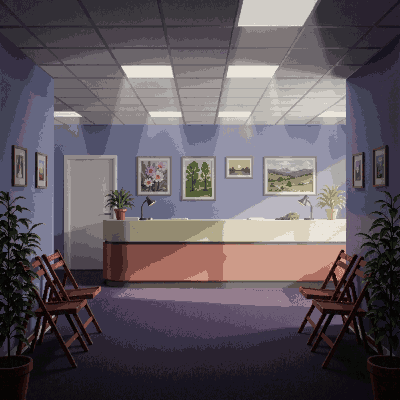
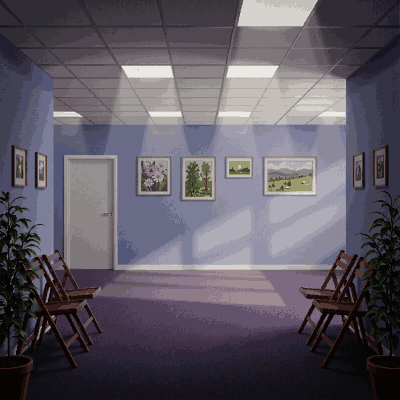
NPC placement: centred towards the top right; moves in m01 and The Tesseract Trials
General guidance (README, room-dressing and background skills): stand person
NPCs roughly centred towards the top right of the room, clear of furniture.
Moved Kevin (m01 IT room), Jordan (foyer), Cliffe (common room), Oleg (in front
of the staff kitchen) and Tom (the aisle between the lecture seats); each
checked in a tour screenshot. m01's reception background no longer has the
counter, so Sarah doesn't look as if she stands in front of it.

diff --git a/.claude/skills/mission-room-dressing/SKILL.md b/.claude/skills/mission-room-dressing/SKILL.md
@@ -51,6 +51,7 @@ Look at each room as a visitor would. Things the user has flagged in past rounds
 - **Realistic detail**, sparingly: fire alarm call point with an extinguisher under it, exit sign, sanitiser dispensers by doors, notice boards, bins of the right kind (clinical waste, pedal, yellow).
 - **Kitchens and counters.** Put counters and fridges in the **tables** layer so mugs and microwaves (table_items) group with them and draw on top.
 - **Keep clear:** the back-wall corners where N doors are drawn, side-door rows (y 64–100), the line a player walks in from each door, the walkway, and the bottom two rows (covered by the room to the south, if there is one). Nothing on the floor may stand in front of a wall fixture the player has to read: a fire extinguisher in front of the server room's UPS panel kept the player more than 32px away, so the panel never opened.
+- **NPC placement.** (user, 2026-10-11): NPCs look best roughly centred in the room, towards the top right, on clear floor (in tiles: about two-thirds across and a third to a half of the way down). Keep a clear gap from furniture, so the sprite doesn't overlap a counter or fridge, and don't put them behind a desk or counter that the room's conversation background shows across them. `position` is the sprite's centre in tiles; the feet sit about a tile lower. Check with `tools/playtest/lighting-tour.sh <mission> <out> <room>`. Story moves (patrol targets, a nurse at a bedside) take priority.
 - **NPCs against furniture.** Check each NPC's `position` and patrol `waypoints` (tiles; ×32 gives x and the feet y) against the map. m02's conference supervisor stood on a bin; move the prop (a map edit) rather than the NPC where you can, since NPC positions may be referenced by the story.
 - **Interactables need room.** A tap gathers every in-reach interactable whose bounds contain it or whose `x,y` (the sprite's top-left, for map slots) is within 32px, and more than one opens a pick-one menu. Two readable papers side by side, or a note tucked beside a PC, read as one click that asks a question. Space them so each top-left is 32px or more from the others' centres; on a crowded desk move a prop elsewhere (m02's planted device went onto the IT workbench). Pairs that belong together, such as a note pinned on a board, can share a menu.
 - **Every scenario object has a proper slot** (below). An object with no slot lands at a random spot, which looks like dropped clutter.

diff --git a/.claude/skills/room-pov-background/SKILL.md b/.claude/skills/room-pov-background/SKILL.md
@@ -278,6 +278,10 @@ Then:
 
 If the run isn't allowed to write to `public/` or the scenario (a delegated review run), stop after the conversion. Return the paths and the scenario line to add.
 
+## NPC placement and the background
+
+NPCs look best roughly centred in the room towards the top right, on clear floor (see "Where to stand a person NPC" in README_scenario_design.md). The background must not put furniture across a standing NPC: m01's reception counter made Sarah look as if she stood in front of it, so the counter was removed from her background by an edit ("Remove the long reception counter … together with everything standing on it … show the back wall continuing down to the skirting"). When a room's main furniture sits where its NPC stands in the chat crop, move the NPC (a scenario edit) or take the furniture out of the background.
+
 ## Custom backgrounds for one NPC (e.g. patients in bed)
 
 An NPC's own `chatBackground` in the scenario wins over the room's (precedence: ink `Background[...]` > explicit `background` > NPC `chatBackground` > room `chatBackground`). Use it when a character is always seen in one spot the room view doesn't suit. m02 and sis01's bed patients share a bedside view per mission (`m02_ward_bedside.png` at night, `sis01_ward_bedside.png` in daylight), made 2026-10-11:

diff --git a/README_scenario_design.md b/README_scenario_design.md
@@ -830,6 +830,8 @@ NPCs are defined in `rooms[id].npcs[]` arrays. Two NPC types exist:
 
 In-world characters with sprites that the player can walk up to and interact with.
 
+**Where to stand a person NPC** (user, 2026-10-11): NPCs look best roughly centred in the room, towards the top right, on clear floor (in tiles: about two-thirds across and a third to a half of the way down). Keep a clear gap from furniture, so the sprite doesn't overlap a counter or fridge, and don't put them behind a desk or counter that the room's conversation background shows across them. `position` is the sprite's centre in tiles; the feet sit about a tile lower. Check with `tools/playtest/lighting-tour.sh <mission> <out> <room>`. Story moves (patrol targets, a nurse at a bedside) take priority.
+
 ```json
 {
   "id": "kevin_park",
